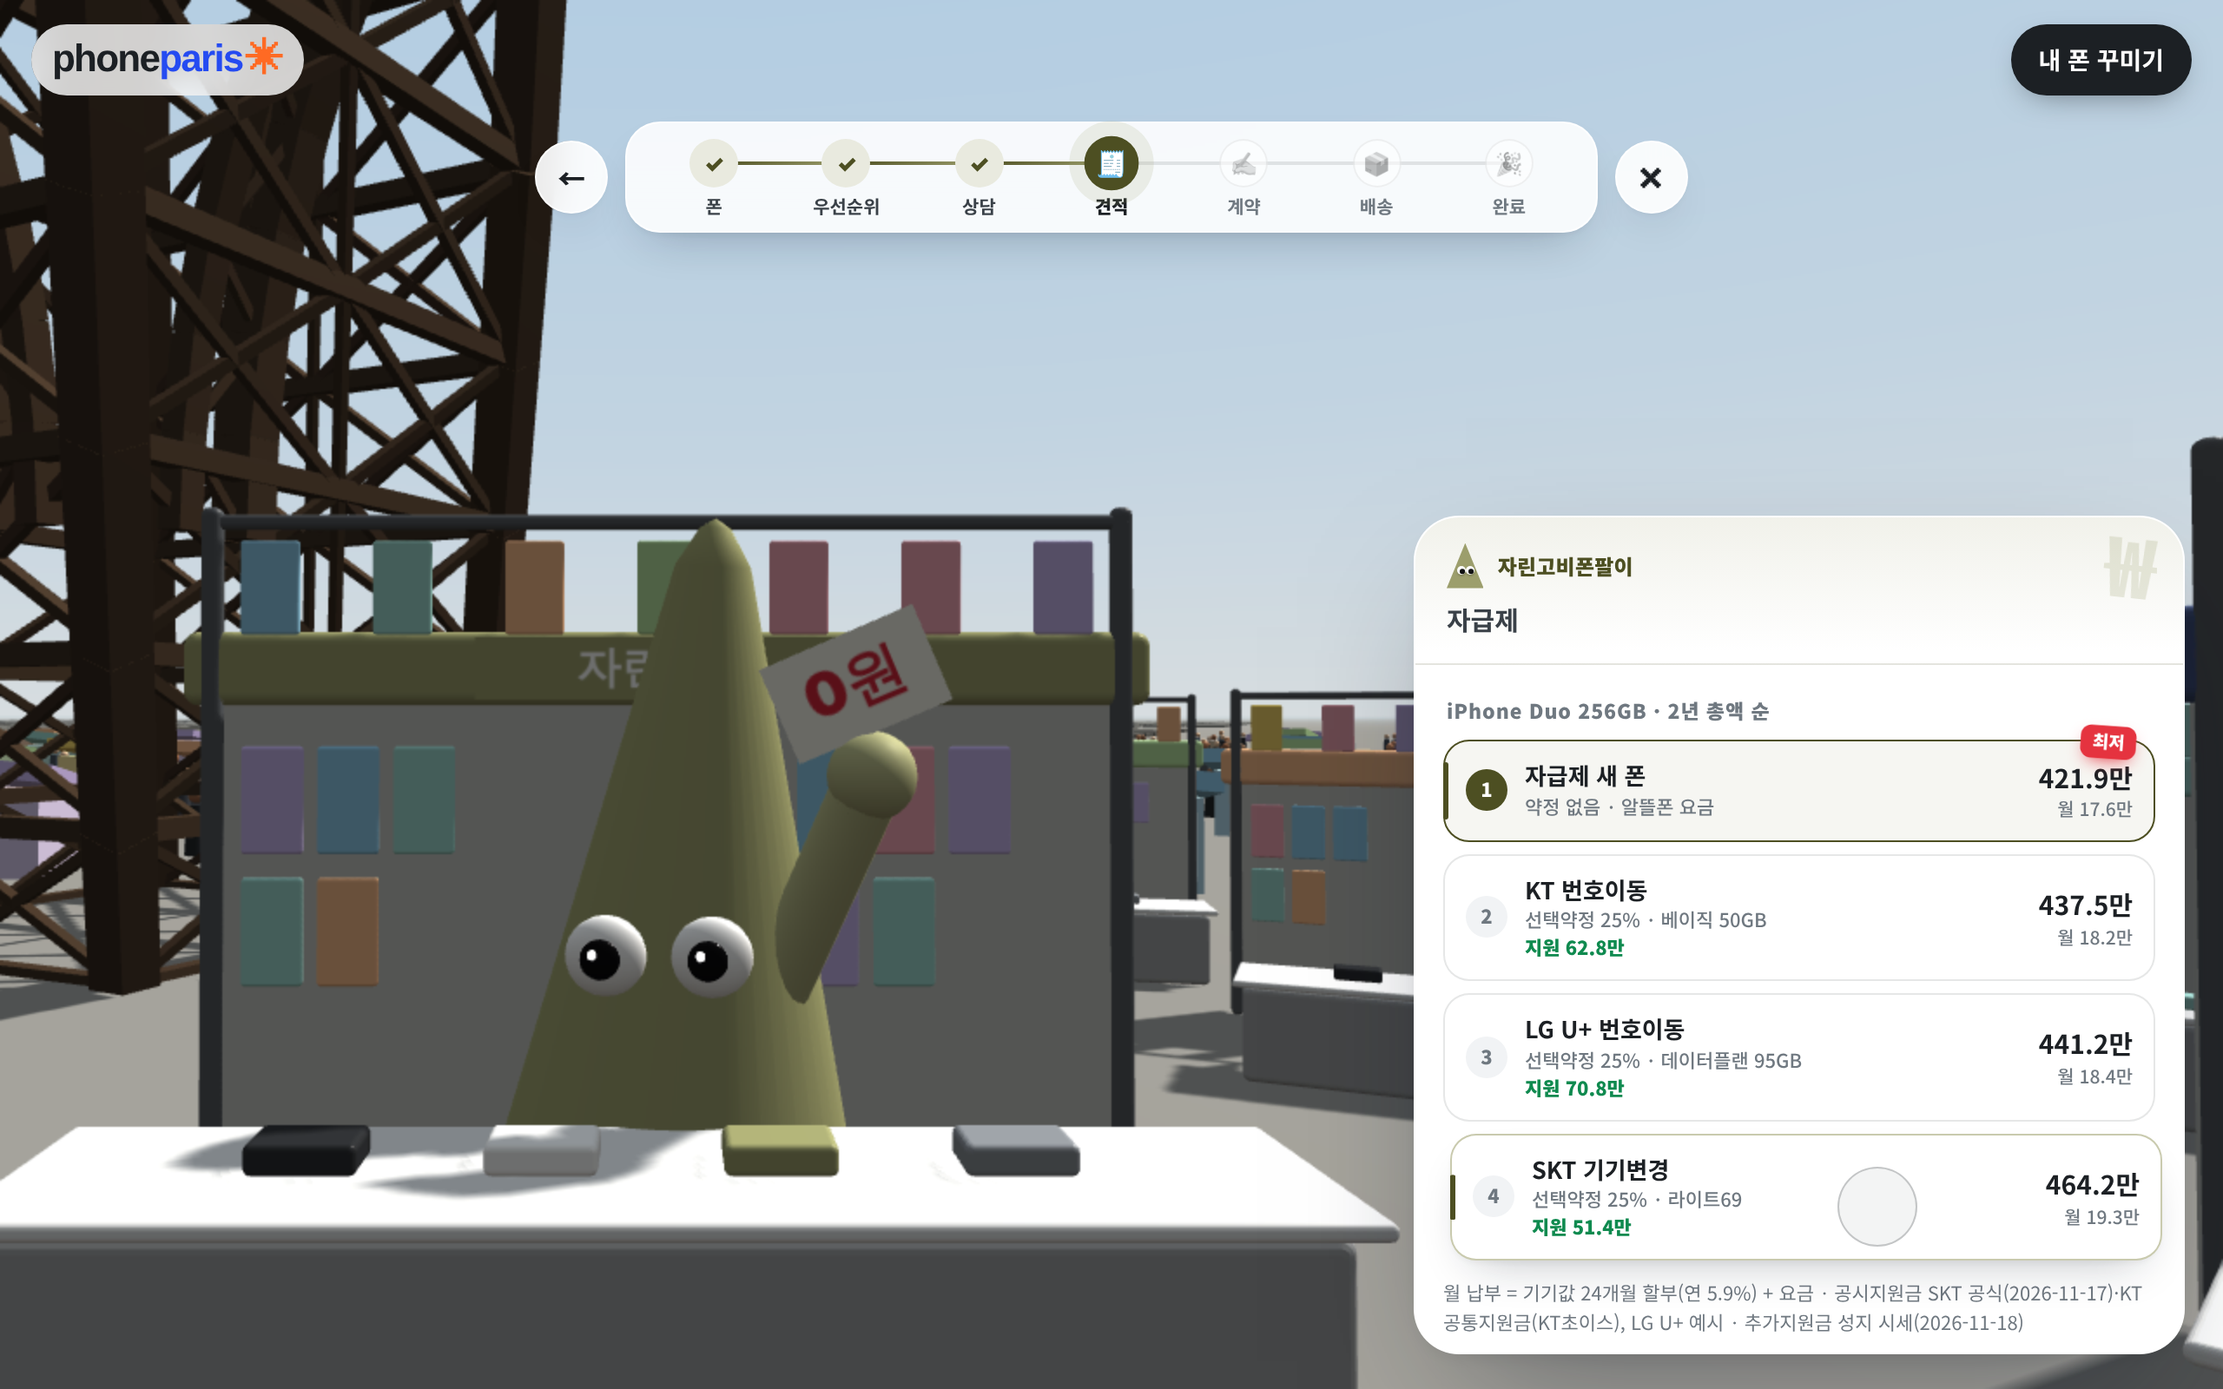
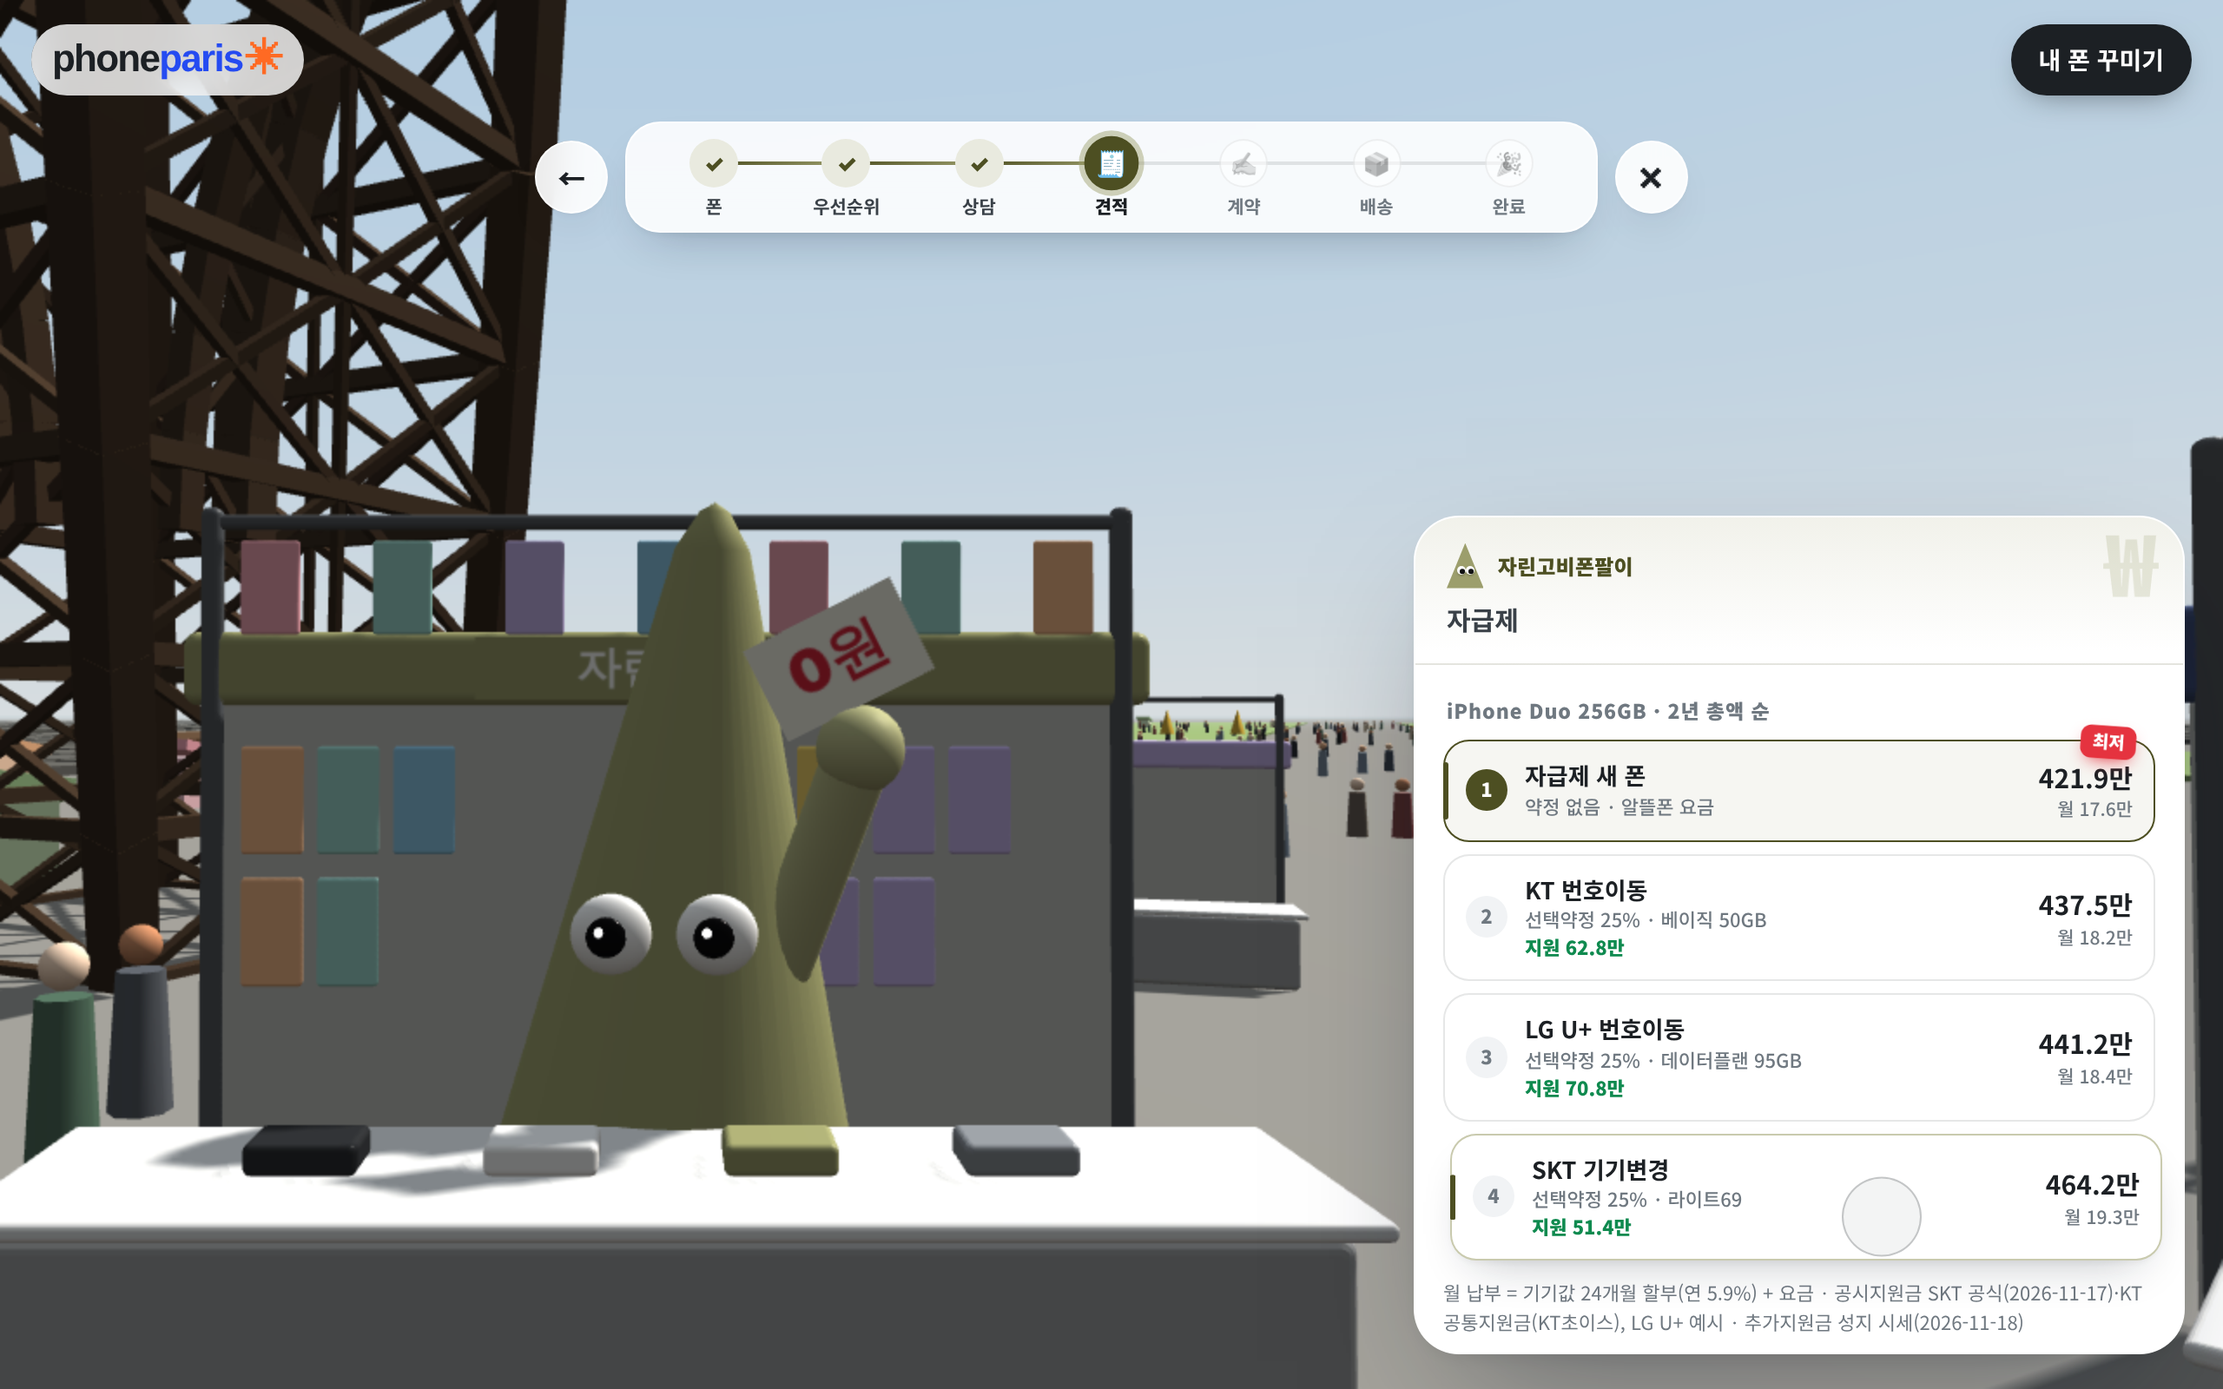
Rebuild the share page with the riverside scene
Claude-Session: https://claude.ai/code/session_01Vjpnwzsf7z6YAX5N6E2Lg5

diff --git a/phoneparis-world/dist/phoneparis-world.html b/phoneparis-world/dist/phoneparis-world.html
@@ -1148,14 +1148,41 @@ window.SITE = {
   /* ---------- 광장 타일, 노점, 군중 ---------- */
   var PASTEL = [0x9fd8cf, 0xf2a7b5, 0xc7b5ea, 0xf4d36b, 0x8fc9e8, 0xb8e0a0, 0xf6b98a];
 
+  /* ---------- 지형: 실제 에펠탑 주변 배치를 줄인 비율로 ----------
+   탑 뒤(-z)로 센강이 흐르고(남쪽 강둑 = 브랑리 강변), 탑 정면으로 이에나 다리, 강 건너 트로카데로 정원과 샤이오 궁.
+   탑 앞(+z, 첫 장면 카메라 쪽)은 샹드마르스 잔디밭. 사람·노점은 사람이 실제로 있을 만한 곳(탑 아래 광장, 샹드마르스 길, 강변 산책로, 다리)에만. */
+  var RIVER = { s: -100, n: -145 };            // 남쪽·북쪽 강둑 z
+  function walkable(x, z) {
+    var d = Math.hypot(x, z);
+    if (d >= 14 && d <= 72) return true;                                 // 탑 아래 광장
+    if (Math.abs(x) < 58 && z > 0 && z < 300) return true;               // 샹드마르스 길·잔디 가장자리
+    if (Math.abs(x) < 26 && z > -90 && z <= 0) return true;              // 탑 → 이에나 다리 길
+    if (Math.abs(x) < 220 && z > -98 && z < -86) return true;            // 브랑리 강변 산책로
+    if (Math.abs(x) < 6.5 && z >= RIVER.n - 2 && z <= -86) return true;  // 이에나 다리 인도
+    return false;
+  }
+  // 사람·노점이 놓일 자리: 구역별 비율로 고름
+  function spot(r, kind) {
+    var t = r();
+    for (var k = 0; k < 40; k++) {
+      var x, z;
+      if (t < .46) { var a = r() * Math.PI * 2, rad = (kind ? 26 : 15) + r() * (kind ? 44 : 56); x = Math.cos(a) * rad; z = Math.sin(a) * rad; }
+      else if (t < .82) { z = 8 + r() * 280; x = (kind ? (r() < .5 ? -1 : 1) * (36 + r() * 18) : (r() - .5) * 112); }
+      else if (t < .97) { x = (r() - .5) * 400; z = kind ? -89 : -96 + r() * 9; }
+      else { if (kind) { t = r() * .82; continue; } x = (r() - .5) * 11; z = RIVER.n - 1 + r() * (RIVER.n * -1 - 88); }
+      if (walkable(x, z)) return [x, z];
+    }
+    return [0, 40];
+  }
   function buildPlaza(r, obs) {
     var g = new T.Group();
     var ground = new T.Mesh(new T.PlaneGeometry(2400, 2400), new T.MeshStandardMaterial({ color: 0x8d8c88, roughness: 1 }));
     ground.rotation.x = -Math.PI / 2; ground.receiveShadow = true; g.add(ground);
-    // 격자 타일 블록 (첫 장면의 광장 패턴)
+    // 격자 타일 블록: 강 남쪽에만, 샹드마르스 잔디 자리는 비움
     var pts = [];
-    for (var x = -440; x <= 440; x += 9) for (var z = -520; z <= 440; z += 9) {
+    for (var x = -360; x <= 360; x += 9) for (var z = -84; z <= 440; z += 9) {
       var d = Math.hypot(x, z); if (d < 75 || Math.abs(x) < 26) continue;
+      if (Math.abs(x) < 64 && z > 80) continue;                         // 샹드마르스 잔디
       if (((Math.floor(x / 63) + Math.floor(z / 63)) & 3) === 0) continue; // 블록 사이 길
       pts.push([x, z]);
     }
@@ -1166,13 +1193,17 @@ window.SITE = {
       tile.setColorAt(i, c.setHex(0x9c9c99).offsetHSL(0, 0, (r() - .5) * .05));
     });
     g.add(tile);
-    // 파스텔 노점 (탑 주변 흩어진 가게)
-    var n = 240, base = new T.InstancedMesh(new T.BoxGeometry(2.6, 1.7, 1.8), new T.MeshStandardMaterial({ color: 0xffffff, roughness: .8 }), n);
+    // 샹드마르스 잔디 두 줄 (가운데 산책길)
+    var lawnM = new T.MeshStandardMaterial({ color: 0x8faa6e, roughness: 1 });
+    [-1, 1].forEach(function (sd) { var l = new T.Mesh(new T.BoxGeometry(44, .3, 340), lawnM); l.position.set(sd * 33, .15, 260); l.receiveShadow = true; g.add(l); });
+    // 잡화 노점(열쇠고리·기념품): 사람이 다니는 곳에만
+    var n = 90, base = new T.InstancedMesh(new T.BoxGeometry(2.6, 1.7, 1.8), new T.MeshStandardMaterial({ color: 0xffffff, roughness: .8 }), n);
     var roof = new T.InstancedMesh(new T.BoxGeometry(3.1, .35, 2.4), new T.MeshStandardMaterial({ color: 0xffffff, roughness: .7 }), n);
     var q = new T.Quaternion(), e = new T.Euler(), sc = new T.Vector3(1, 1, 1);
     for (var i = 0; i < n; i++) {
-      var a = r() * Math.PI * 2, rad = 26 + Math.pow(r(), .8) * 92, px = Math.cos(a) * rad, pz = Math.sin(a) * rad;
-      e.set(0, r() * Math.PI, 0); q.setFromEuler(e);
+      var sp = spot(r, 1), px = sp[0], pz = sp[1];
+      var face = pz < -84 ? 0 : Math.abs(px) > 30 && pz > 8 ? Math.PI / 2 : Math.atan2(px, pz); // 강변은 산책로, 샹드마르스는 길 쪽을 봄
+      e.set(0, face + (r() - .5) * .3, 0); q.setFromEuler(e);
       m.compose(new T.Vector3(px, .85, pz), q, sc); base.setMatrixAt(i, m); obs.add(px, pz, 1.9);
       e.set(.18, e.y, 0); q.setFromEuler(e);
       m.compose(new T.Vector3(px, 1.9, pz), q, sc); roof.setMatrixAt(i, m);
@@ -1180,6 +1211,72 @@ window.SITE = {
       base.setColorAt(i, c.setHex(col).lerp(new T.Color(0xffffff), .35)); roof.setColorAt(i, c.setHex(col));
     }
     g.add(base, roof);
+    g.add(buildRiverside(r, obs));
+    return g;
+  }
+
+  // 센강 + 이에나 다리 + 강 건너 트로카데로·샤이오 궁·파리 건물 (안개 속으로 자연스럽게 흐려짐)
+  function buildRiverside(r, obs) {
+    var g = new T.Group(), m = new T.Matrix4(), c = new T.Color(), q = new T.Quaternion(), e = new T.Euler();
+    var stone = new T.MeshStandardMaterial({ color: 0xb8b0a1, roughness: .9 });
+    var water = new T.Mesh(new T.PlaneGeometry(2400, RIVER.s - RIVER.n), new T.MeshStandardMaterial({ color: 0x6d8b9c, roughness: .22, metalness: .15 }));
+    water.rotation.x = -Math.PI / 2; water.position.set(0, .08, (RIVER.s + RIVER.n) / 2); g.add(water);
+    g.userData.water = water;
+    [RIVER.s, RIVER.n].forEach(function (z, k) { // 강둑 돌벽
+      var w = new T.Mesh(new T.BoxGeometry(2400, 1.3, 2), stone); w.position.set(0, .65, z + (k ? -1 : 1)); g.add(w);
+    });
+    // 이에나 다리: 상판 + 아치 기둥
+    var deck = new T.Mesh(new T.BoxGeometry(14, .9, RIVER.s - RIVER.n + 6), stone); deck.position.set(0, 2.2, (RIVER.s + RIVER.n) / 2); g.add(deck);
+    for (var k = 1; k < 5; k++) { var pr = new T.Mesh(new T.BoxGeometry(15, 2.2, 2.4), stone); pr.position.set(0, 1, RIVER.s + (RIVER.n - RIVER.s) * k / 5); g.add(pr); }
+    // 강 건너 땅: 강둑 위 산책길 → 트로카데로 정원(계단식 잔디) → 샤이오 궁
+    var far = new T.Mesh(new T.BoxGeometry(2400, 1.3, 700), new T.MeshStandardMaterial({ color: 0xa6a296, roughness: 1 })); far.position.set(0, .65, RIVER.n - 352); g.add(far);
+    var green = new T.MeshStandardMaterial({ color: 0x86a36a, roughness: 1 });
+    for (var t = 0; t < 4; t++) { var lw = new T.Mesh(new T.BoxGeometry(150 - t * 16, 1.6 + t * 2.4, 28), green); lw.position.set(0, 1.3 + t * 1.2, RIVER.n - 30 - t * 26); g.add(lw); }
+    var pool = new T.Mesh(new T.BoxGeometry(18, .4, 70), new T.MeshStandardMaterial({ color: 0x7c9cab, roughness: .2, metalness: .15 })); pool.position.set(0, 2.2 + 3.6, RIVER.n - 70); g.add(pool); // 바르샤바 분수
+    var cream = new T.MeshStandardMaterial({ color: 0xe3dccb, roughness: .85 }), zc = RIVER.n - 160;
+    [-1, 1].forEach(function (sd) { // 샤이오 궁: 양쪽으로 굽은 두 날개 + 끝 동
+      for (var k = 0; k < 9; k++) {
+        var a = (.18 + k * .1) * sd, x = Math.sin(a) * 120, z = zc + 120 - Math.cos(a) * 120;
+        var wing = new T.Mesh(new T.BoxGeometry(14.5, 14, 11), cream); wing.position.set(x, 9.3, z); wing.rotation.y = -a; g.add(wing);
+      }
+      var pav = new T.Mesh(new T.BoxGeometry(22, 20, 22), cream); pav.position.set(sd * 22, 12.3, zc + 4); g.add(pav);
+    });
+    // 강 건너 파리 건물 (오스만 양식 크림색 벽 + 회색 지붕), 강 양옆 나무
+    var blocks = [];
+    for (var i = 0; i < 90; i++) {
+      var bx = (r() - .5) * 1100, bz = RIVER.n - 20 - r() * 520;
+      if (Math.abs(bx) < 150 && bz > RIVER.n - 240) continue;               // 정원·궁 자리 비우기
+      blocks.push([bx, bz, 16 + r() * 14, 18 + r() * 12, 14 + r() * 10, r() * .5]);
+    }
+    var wall = new T.InstancedMesh(new T.BoxGeometry(1, 1, 1), new T.MeshStandardMaterial({ color: 0xffffff, roughness: .9 }), blocks.length);
+    var roofs = new T.InstancedMesh(new T.BoxGeometry(1, 1, 1), new T.MeshStandardMaterial({ color: 0x7d8790, roughness: .7 }), blocks.length);
+    blocks.forEach(function (b, i) {
+      e.set(0, b[5] - .25, 0); q.setFromEuler(e);
+      m.compose(new T.Vector3(b[0], 1.3 + b[4] / 2, b[1]), q, new T.Vector3(b[2], b[4], b[3])); wall.setMatrixAt(i, m);
+      wall.setColorAt(i, c.setHex(0xe6ddc9).offsetHSL(0, 0, (r() - .5) * .08));
+      m.compose(new T.Vector3(b[0], 1.3 + b[4] + 1.6, b[1]), q, new T.Vector3(b[2] * .92, 3.2, b[3] * .92)); roofs.setMatrixAt(i, m);
+    });
+    g.add(wall, roofs);
+    var trunkG = new T.CylinderGeometry(.25, .35, 3, 6); trunkG.translate(0, 1.5, 0);
+    var crownG = new T.SphereGeometry(2.6, 8, 6); crownG.translate(0, 4.6, 0);
+    var tp = [];
+    for (var x2 = -230; x2 <= 230; x2 += 11) { if (Math.abs(x2) > 12) tp.push([x2, RIVER.s + 4.5, 0], [x2, RIVER.n - 5, 1.3]); }
+    var trunks = new T.InstancedMesh(trunkG, new T.MeshStandardMaterial({ color: 0x5e4b3c, roughness: 1 }), tp.length);
+    var crowns = new T.InstancedMesh(crownG, new T.MeshStandardMaterial({ color: 0xffffff, roughness: 1 }), tp.length);
+    tp.forEach(function (p, i) {
+      var s2 = .85 + r() * .35; m.compose(new T.Vector3(p[0], p[2], p[1]), q.identity(), new T.Vector3(s2, s2, s2));
+      trunks.setMatrixAt(i, m); crowns.setMatrixAt(i, m); if (p[2] === 0) obs.add(p[0], p[1], .6); crowns.setColorAt(i, c.setHex(0x6f9157).offsetHSL(0, 0, (r() - .5) * .08));
+    });
+    g.add(trunks, crowns);
+    // 유람선 두 척 (천천히 강을 오감)
+    var boats = [];
+    [[-1, RIVER.s - 14, 0], [1, RIVER.n + 13, 600]].forEach(function (b) {
+      var boat = new T.Group();
+      var hull = new T.Mesh(new T.BoxGeometry(26, 1.6, 6), new T.MeshStandardMaterial({ color: 0xf2f0ea, roughness: .6 })); hull.position.y = .9; boat.add(hull);
+      var cab = new T.Mesh(new T.BoxGeometry(20, 1.8, 5), new T.MeshStandardMaterial({ color: 0x9fb3bf, roughness: .2, metalness: .2 })); cab.position.y = 2.6; boat.add(cab);
+      boat.position.set(b[2] - 300, 0, b[1]); boat.userData = { dir: b[0], off: b[2] }; g.add(boat); boats.push(boat);
+    });
+    g.userData.boats = boats;
     return g;
   }
 
@@ -1208,7 +1305,7 @@ window.SITE = {
     var skins = [0xf1c9a5, 0xe0ac85, 0xc68863, 0x9a6648, 0xf6d8bf];
     for (var i = 0; i < n; i++) {
       var x, z, tries = 0;
-      do { var a = r() * Math.PI * 2, rad = 15 + Math.pow(r(), .7) * 110; x = Math.cos(a) * rad; z = Math.sin(a) * rad; tries++; } while (obs.hit(x, z, .5) && tries < 20);
+      do { var sp = spot(r, 0); x = sp[0]; z = sp[1]; tries++; } while (obs.hit(x, z, .5) && tries < 20);
       people.push({ x: x, z: z, h: r() * Math.PI * 2, v: .6 + r() * .9, s: .88 + r() * .25, turn: 0 });
       bodies.setColorAt(i, c.setHex(clothes[i % clothes.length]));
       heads.setColorAt(i, c.setHex(skins[i % skins.length]));
@@ -1333,11 +1430,16 @@ window.SITE = {
     var metal = std(0x55595e, .4);
     [-3.1, 3.1].forEach(function (x) { var post = rbox(.14, 4.6, .14, .05, metal); post.position.set(x, 2.3, -1.7); g.add(post); });
     var bar = rbox(6.3, .1, .1, .04, metal); bar.position.set(0, 4.5, -1.7); g.add(bar);
+    var counter = rbox(5.6, 1.1, 1.1, .08, std(0x9fa1a3, .7)); counter.position.set(0, .55, 1.55); g.add(counter);
+    var top = rbox(5.8, .08, 1.3, .03, std(0xe6e7e8, .3)); top.position.set(0, 1.14, 1.55); g.add(top);
+    if (id === "x") { // 폰팔이가 아닌 노점: 기념품 잡화 (금방 지나가는 배경이라 간단히, 봉에 걸린 열쇠고리 몇 개만)
+      var mini = new T.ConeGeometry(.13, .45, 4), gold = std(0xc9a43a, .4);
+      for (var h2 = 0; h2 < 5; h2++) { var kr = new T.Mesh(mini, gold); kr.position.set(-2.4 + h2 * 1.2, 4.1, -1.68); g.add(kr); }
+      return g;
+    }
     for (var h = 0; h < 7; h++) { // 위 봉에 걸린 상품 (케이스·파우치)
       var hang = rbox(.4, .64, .06, .05, std(PASTEL[(h * 3 + Math.floor(r() * 7)) % 7], .5)); hang.position.set(-2.7 + h * .9, 4.05, -1.68); g.add(hang);
     }
-    var counter = rbox(5.6, 1.1, 1.1, .08, std(0x9fa1a3, .7)); counter.position.set(0, .55, 1.55); g.add(counter);
-    var top = rbox(5.8, .08, 1.3, .03, std(0xe6e7e8, .3)); top.position.set(0, 1.14, 1.55); g.add(top);
     for (var k = 0; k < 10; k++) { // 뒷판 진열 (폰 케이스 모양)
       var item = rbox(.42, .74, .07, .07, std(PASTEL[(k + Math.floor(r() * 7)) % 7], .45));
       var left = k < 5; item.position.set((left ? -2.7 : 1.1) + (k % 5 % 3) * .52, 2.6 - Math.floor((k % 5) / 3) * .9, -1.74); g.add(item);
@@ -1394,7 +1496,8 @@ window.SITE = {
 
     this.tower = buildTower(); scene.add(this.tower);
     var obs = new Obstacles(); this.obstacles = obs;
-    scene.add(buildPlaza(r, obs));
+    var plaza = buildPlaza(r, obs); scene.add(plaza);
+    this.boats = plaza.children[plaza.children.length - 1].userData.boats;
     [[1, 1], [1, -1], [-1, 1], [-1, -1]].forEach(function (s2) { obs.add(s2[0] * 17.6, s2[1] * 17.6, 5.4); }); // 탑 다리
 
     // 탑 아래 장터: 폰팔이 여섯 + 이름 없는 노점
@@ -1409,14 +1512,14 @@ window.SITE = {
       ch.traverse(function (o) { if (o.isMesh) self.hitTargets.push(o); });
       obs.add(p.x, p.z, 4);
     });
-    for (var i = 0; i < 26; i++) { // 탑 밑 둘레 노점
-      var a = i / 26 * Math.PI * 2 + .12, rad = 17 + (i % 3) * 2.2;
+    for (var i = 0; i < 10; i++) { // 탑 밑 둘레 기념품 노점 (폰은 여섯 폰팔이만 팖)
+      var a = i / 10 * Math.PI * 2 + .12, rad = 17 + (i % 3) * 2.2;
       if (Math.abs(Math.cos(2 * a)) < .45) continue; // 다리 자리 비우기
       var b = buildBooth("x", PASTEL[i % 7], r); b.scale.setScalar(.75);
       b.position.set(Math.cos(a) * rad, 0, Math.sin(a) * rad); b.lookAt(0, 0, 0); scene.add(b);
       obs.add(b.position.x, b.position.z, 3.1);
     }
-    this.crowd = buildCrowd(r, this.lite ? 1300 : 2600, obs); scene.add(this.crowd);
+    this.crowd = buildCrowd(r, this.lite ? 490 : 975, obs); scene.add(this.crowd);
 
     this.shots = buildShots();
     this.stopOf = {}; var so = this.stopOf; this.shots.forEach(function (sh, i) { if (sh.dealer) so[sh.dealer] = i; });
@@ -1502,7 +1605,7 @@ window.SITE = {
       if (p.turn > 0) { p.h += p.turnDir * 2.4 * dt; p.turn -= dt; }
       else p.h += Math.sin(time * .3 + i) * .4 * dt;
       var nx = p.x + Math.cos(p.h) * p.v * dt, nz = p.z + Math.sin(p.h) * p.v * dt, d = Math.hypot(nx, nz);
-      if (d < 14 || d > 130) { p.h += Math.PI; }
+      if (!walkable(nx, nz)) { p.h += Math.PI; }
       else if (obs.hit(nx, nz, .35)) { if (p.turn <= 0) { p.turn = .5 + Math.random() * .6; p.turnDir = Math.random() < .5 ? -1 : 1; } }
       else { p.x = nx; p.z = nz; }
       var bob = Math.abs(Math.sin(time * 6 * p.v + i)) * .05;
@@ -1510,6 +1613,7 @@ window.SITE = {
       m.compose(pos, q, sc); cd.bodies.setMatrixAt(i, m); cd.heads.setMatrixAt(i, m);
     }
     cd.bodies.instanceMatrix.needsUpdate = true; cd.heads.instanceMatrix.needsUpdate = true;
+    this.boats.forEach(function (b) { b.position.x = ((time * 3 * b.userData.dir + b.userData.off) % 1200 + 1200) % 1200 - 600; b.rotation.y = b.userData.dir < 0 ? Math.PI : 0; }); // 유람선
     // 캐릭터: 폰팔이마다 다른 호객 동작 + 마우스 올리면 반응 + 깜빡임·시선
     var px = this.pointer.x, py = this.pointer.y, prog = this.progress;
     for (var id in this.dealers) {
